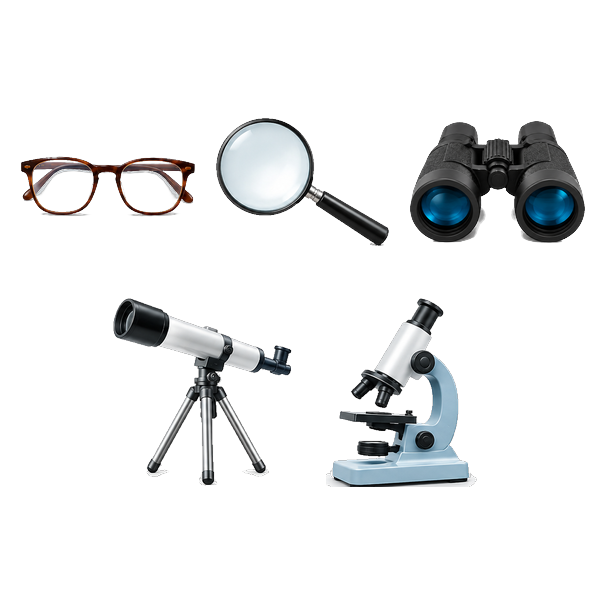
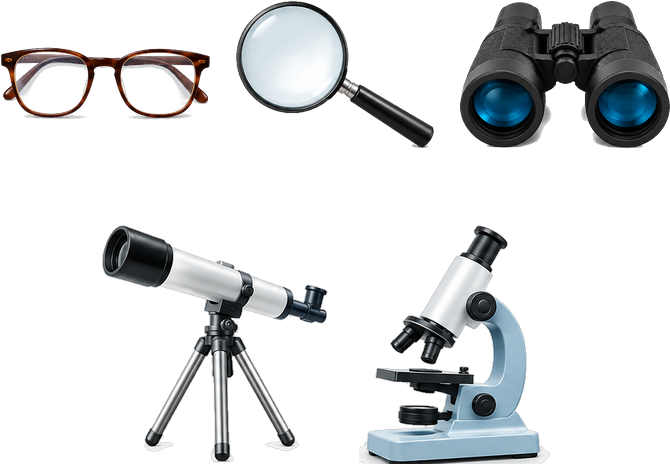
Sight menu: bigger tools on the Super Eyes Tools card
Claude-Session: https://claude.ai/code/session_01A6kUBkj3GVE8JYfMYEjZJZ

diff --git a/PAGINAS/sight.html b/PAGINAS/sight.html
@@ -175,7 +175,7 @@ body.dark .eyecard{background:#3a3f5c}
     <button class="mcard" data-go="eyes"><div class="ic" style="background:#e3f0ff"><img src="../IMAGENES/SIGHT/sight_menu_eyes.png" alt=""></div><div class="t">My Eyes</div><div class="d">Look at my eye!</div></button>
     <button class="mcard" data-go="how"><div class="ic" style="background:#fff3d6"><img src="../IMAGENES/SIGHT/sight_menu_bulb.png" alt=""></div><div class="t">How Do I See?</div><div class="d">Light, eye, brain</div></button>
     <button class="mcard" data-go="torch"><div class="ic" style="background:#2b2f45"><img src="../IMAGENES/SIGHT/sight_torch.png" alt=""></div><div class="t">Torch Hunt</div><div class="d">Find it in the dark!</div></button>
-    <button class="mcard" data-go="tools"><div class="ic" style="background:#e7f8e3"><img src="../IMAGENES/SIGHT/sight_menu_tools.png" alt=""></div><div class="t">Super Eyes Tools</div><div class="d">Tools to see better</div></button>
+    <button class="mcard" data-go="tools"><div class="ic" style="background:#e7f8e3"><img src="../IMAGENES/SIGHT/sight_menu_tools.png" alt="" style="inset:6%;width:88%;height:88%"></div><div class="t">Super Eyes Tools</div><div class="d">Tools to see better</div></button>
     <button class="mcard" data-go="quiz"><div class="ic" style="background:#ffe3ec"><img src="../IMAGENES/SIGHT/sight_menu_target.png" alt=""></div><div class="t">Which Tool?</div><div class="d">Choose the right one</div></button>
   </div>
 </section>
